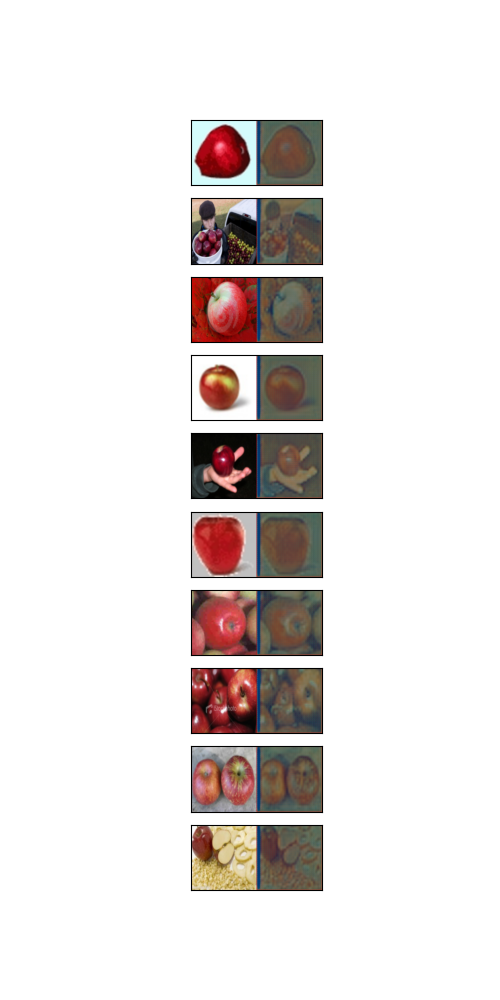
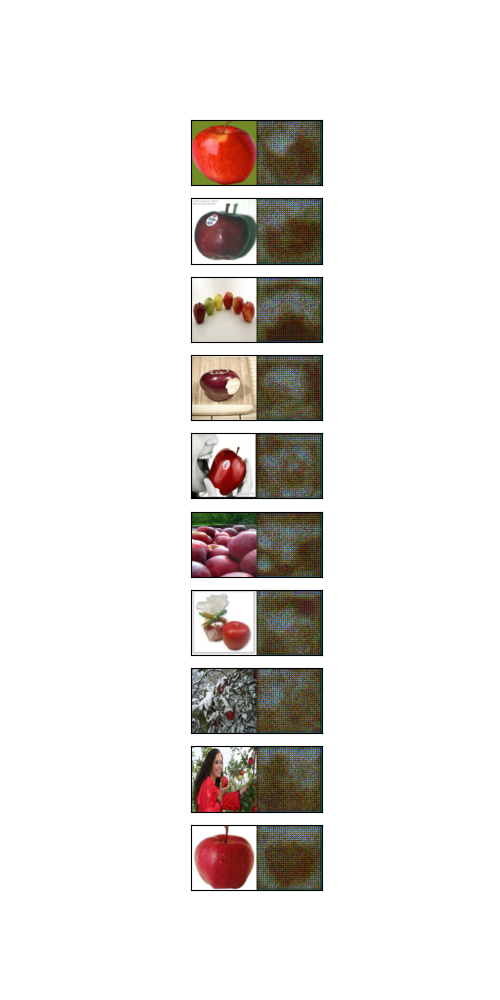
continue experimenting with different model hyperparameters and training for more epochs for cycle GAN

Changed region(s): [[0.36, 0.124, 0.66, 0.899]]

diff --git a/train_gan.py b/train_gan.py
@@ -16,15 +16,15 @@ enc_net_feats = 32
 num_patches = 128
 
 # define the params to pass to the cycle GAN model
-lambda_src = 10
-lambda_targ = 10
+lambda_src = 5
+lambda_targ = 5
 lambda_identity = 0.5
 
 save_every = 100 # save generator image every x images in a batch
 # define training parameters common to both architectures
 gan_l_type='lsgan' # consider switching to lsgan as used in the paper
 epochs = 100
-lr = 2e-4 
+lr = 1e-5 
 bs = 1
 device = torch.device('cuda' if torch.cuda.is_available() else 'cpu') 
 print(f'Device: {device}')
@@ -58,7 +58,7 @@ def main():
                 x = x.to(device)
                 y = y.to(device)
                 # train model
-                model.optimize_params(x, y, discriminator_train=1)
+                model.optimize_params(x, y, gen_train=3, discriminator_train=1)
                 # update losses
                 model.get_losses()
                 model.update_losses(loss_list)

diff --git a/data_utility.py b/data_utility.py
@@ -62,7 +62,7 @@ def create_dataloader(root: str, im_size: Tuple, bs: int) -> DataLoader:
     return dataloader
 
 
-class ImagePool():
+class ImagePool:
     """
     Image buffer class for cycle GAN
     """

diff --git a/cycle_gan.py b/cycle_gan.py
@@ -46,7 +46,6 @@ class CycleGan(nn.Module):
         self.disc_targ.train()
 
 
-  
     def eval(self):
         self.gen_src_targ.eval()
         self.gen_targ_src.eval()
